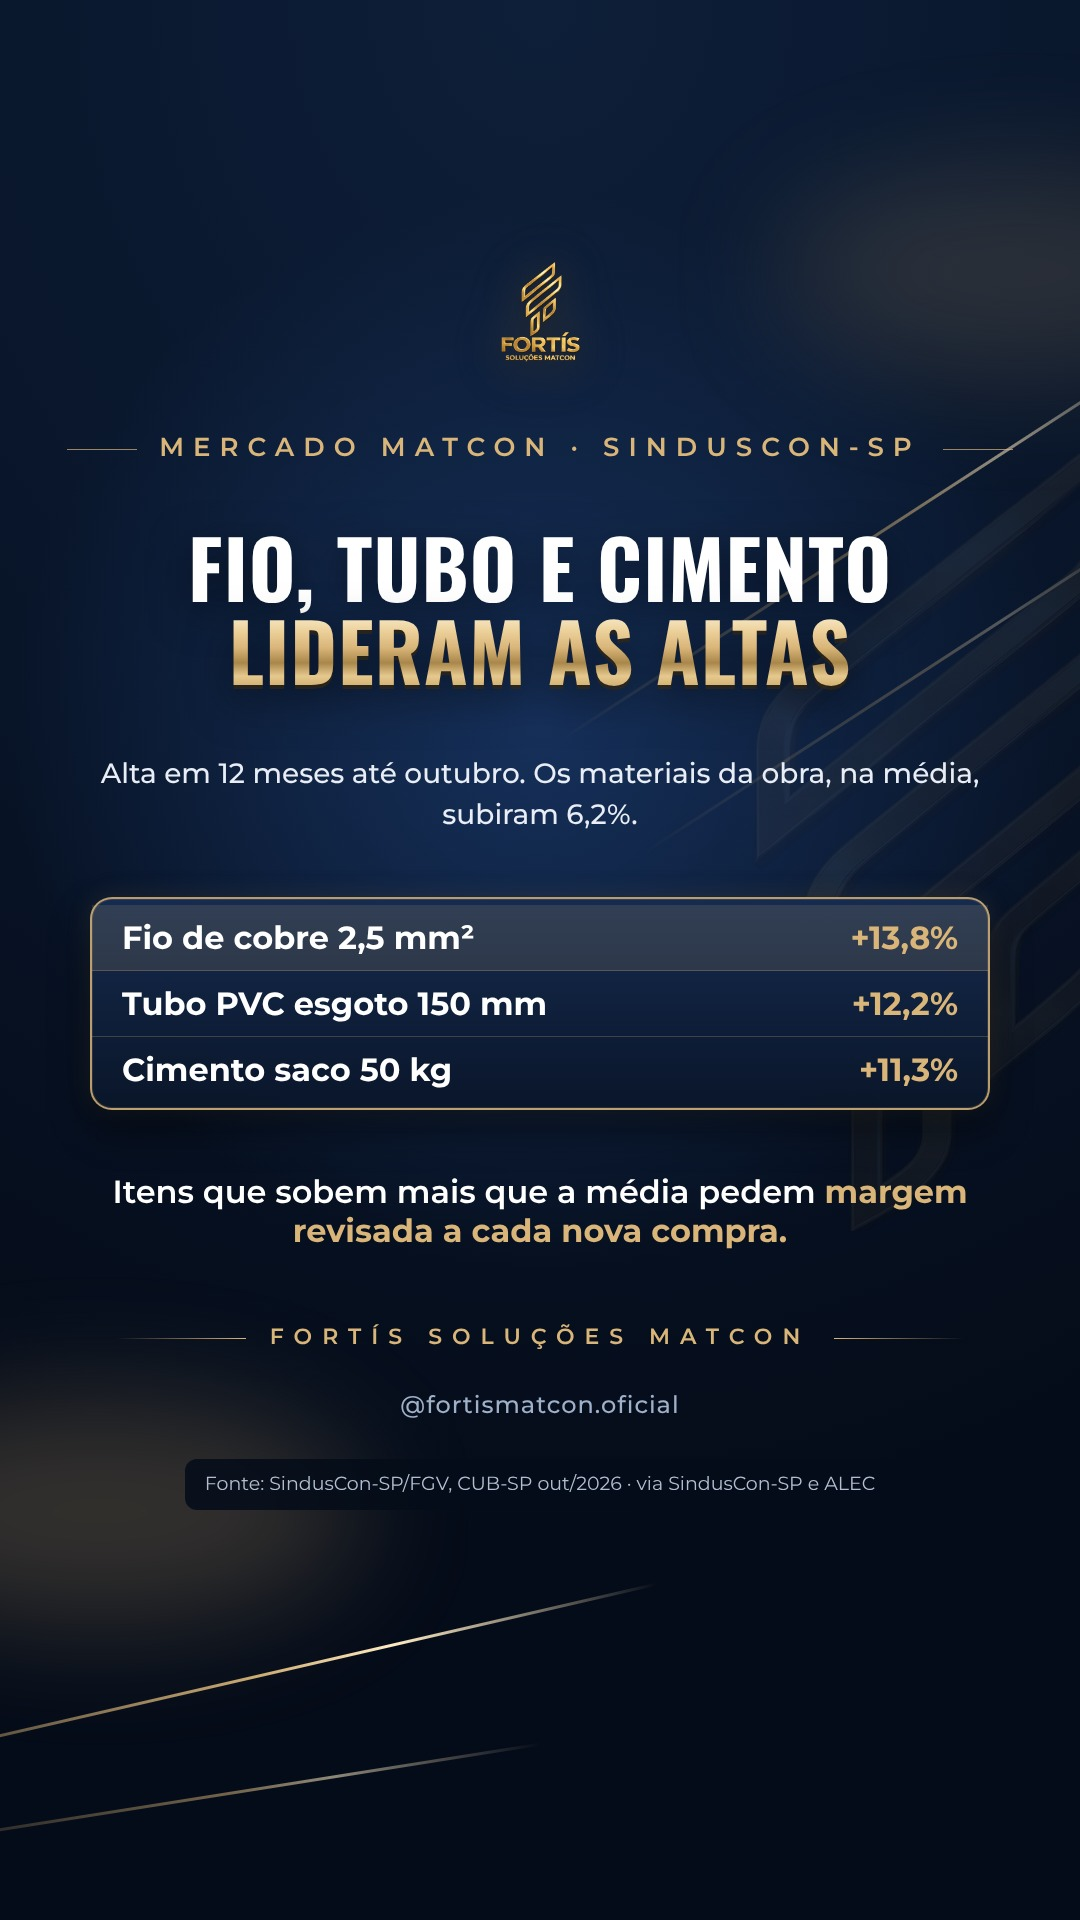
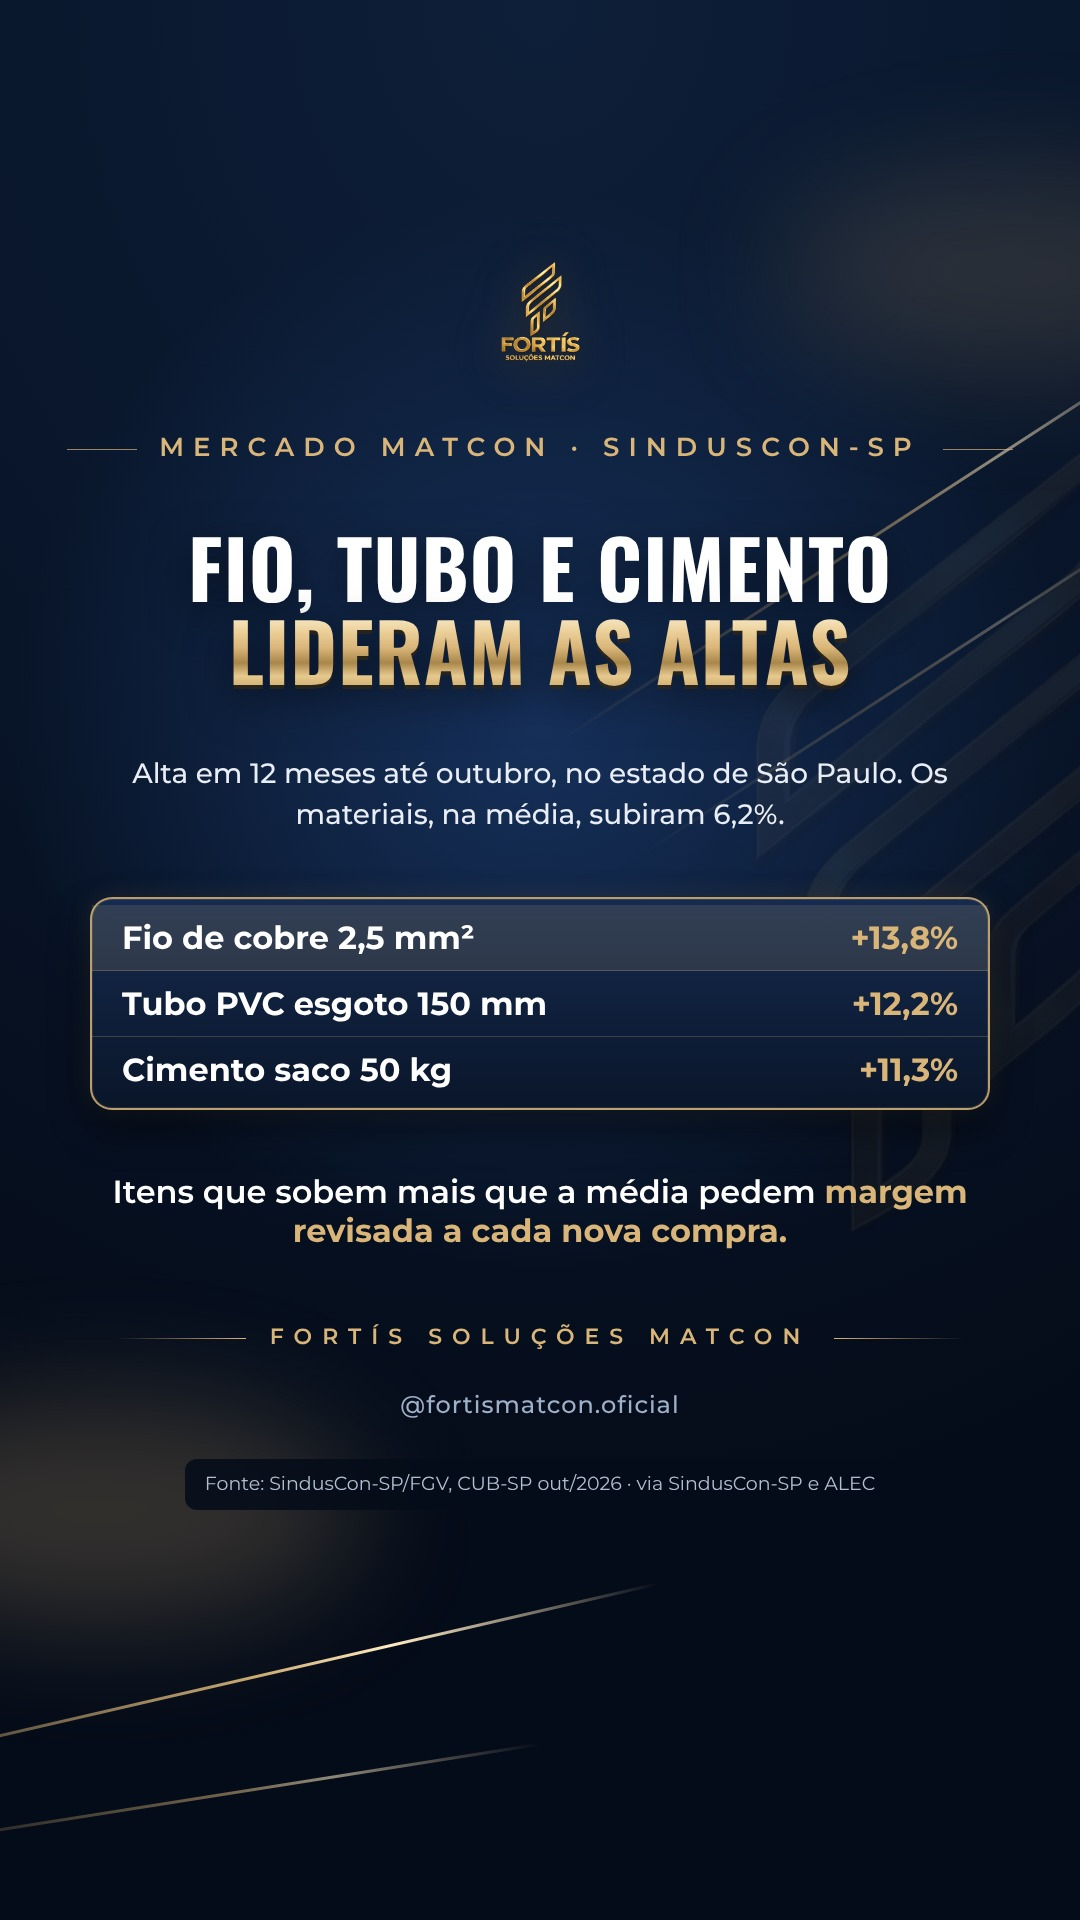
Story 12:00 24/11: deixa claro que o dado é do estado de SP
Claude-Session: https://claude.ai/code/session_015GedZFFve6izSH2D3Xk4RV

Changed region(s): [[0.275, 0.375, 0.8861, 0.4375], [0.0917, 0.375, 0.275, 0.4062]]

diff --git a/gerador/especiais/noticia-24-11.py b/gerador/especiais/noticia-24-11.py
@@ -11,7 +11,7 @@ def story_cub():
                  32, destaque=(0,))
     return story(f'''{kicker("MERCADO MATCON · SINDUSCON-SP", 26)}
   {titulo(["FIO, TUBO E CIMENTO", "LIDERAM AS ALTAS"], 80, 900)}
-  {sub("Alta em 12 meses até outubro. Os materiais da obra, na média, subiram 6,2%.", 28, 90)}
+  {sub("Alta em 12 meses até outubro, no estado de São Paulo. Os materiais, na média, subiram 6,2%.", 28, 90)}
   {card(tab)}
   <p class="cta k" style="font-size:32px;padding:0 80px">Itens que sobem mais que a média pedem <b>margem revisada a cada nova compra.</b></p>''',
       'Fonte: SindusCon-SP/FGV, CUB-SP out/2026 · via SindusCon-SP e ALEC', 80)
